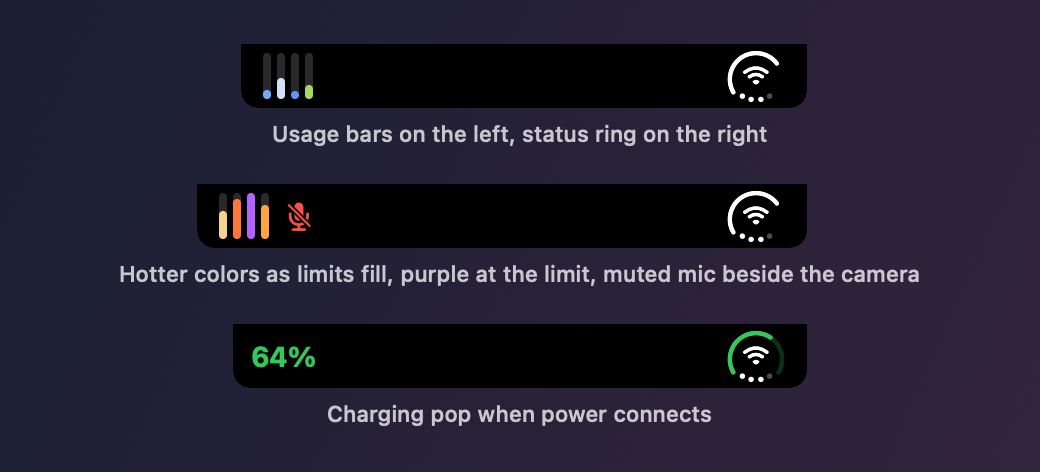
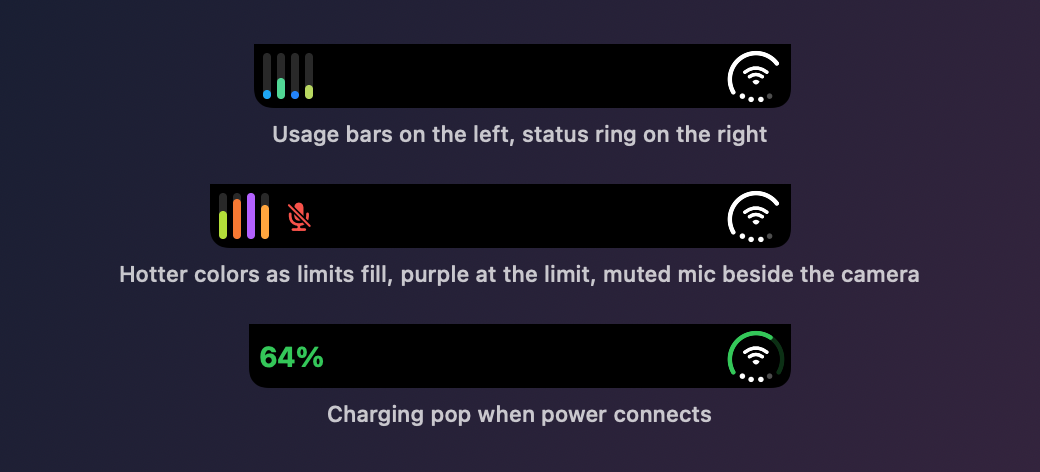
Match each closed-notch glyph's side gap to its bottom gap

diff --git a/Notchly/Views/Island/Battery/CompactBatteryView.swift b/Notchly/Views/Island/Battery/CompactBatteryView.swift
@@ -24,37 +24,53 @@ struct CompactBatteryView: View {
     var usageBars: [UsageBar] = []
 
     static let verticalInset: CGFloat = 2.5
+    /// Space between a glyph and the camera notch.
     static let horizontalInset: CGFloat = 11
     static let micIconWidth: CGFloat = 14
     static let leftWingSpacing: CGFloat = 8
 
     /// The wing left of the camera for the usage bars and muted mic; 0 when both are off.
-    static func leftWingWidth(barCount: Int, micMuted: Bool) -> CGFloat {
+    static func leftWingWidth(barCount: Int, micMuted: Bool, closedHeight: CGFloat) -> CGFloat {
         guard barCount > 0 || micMuted else { return 0 }
         let bars = UsageBarsGlyph.width(barCount: barCount)
         let mic = micMuted ? micIconWidth : 0
         let gap = barCount > 0 && micMuted ? leftWingSpacing : 0
-        return horizontalInset * 2 + bars + gap + mic
+        return horizontalInset + bars + gap + mic + barsOuterInset(closedHeight: closedHeight)
     }
 
     static func glyphHeight(closedHeight: CGFloat) -> CGFloat {
         (closedHeight - verticalInset * 2) * 0.95
     }
 
+    static func barsHeight(closedHeight: CGFloat) -> CGFloat {
+        glyphHeight(closedHeight: closedHeight) - 3
+    }
+
+    /// The ring sits as far from the island's right edge as from its bottom edge.
+    static func ringOuterInset(closedHeight: CGFloat) -> CGFloat {
+        (closedHeight - glyphHeight(closedHeight: closedHeight)) / 2
+    }
+
+    /// The bars sit as far from the island's left edge as from its bottom edge.
+    static func barsOuterInset(closedHeight: CGFloat) -> CGFloat {
+        (closedHeight - barsHeight(closedHeight: closedHeight)) / 2
+    }
+
     /// The wing right of the notch that holds the glyph.
     static func wingWidth(closedHeight: CGFloat) -> CGFloat {
-        horizontalInset * 2 + StatusRingGlyph.width(forHeight: glyphHeight(closedHeight: closedHeight))
+        horizontalInset + StatusRingGlyph.width(forHeight: glyphHeight(closedHeight: closedHeight))
+            + ringOuterInset(closedHeight: closedHeight)
     }
 
     var body: some View {
-        let leftWing = Self.leftWingWidth(barCount: usageBars.count, micMuted: micMuted)
+        let leftWing = Self.leftWingWidth(barCount: usageBars.count, micMuted: micMuted, closedHeight: size.height)
         HStack(spacing: 0) {
             if leftWing > 0 {
                 HStack(spacing: Self.leftWingSpacing) {
                     if !usageBars.isEmpty {
                         UsageBarsGlyph(
                             bars: usageBars,
-                            height: Self.glyphHeight(closedHeight: size.height) - 3
+                            height: Self.barsHeight(closedHeight: size.height)
                         )
                     }
                     if micMuted {
@@ -63,7 +79,8 @@ struct CompactBatteryView: View {
                             .transition(.opacity.combined(with: .scale(scale: 0.6)))
                     }
                 }
-                .frame(width: leftWing)
+                .padding(.leading, Self.barsOuterInset(closedHeight: size.height))
+                .frame(width: leftWing, alignment: .leading)
                 .transition(.opacity)
             }
 
@@ -79,7 +96,7 @@ struct CompactBatteryView: View {
                 height: Self.glyphHeight(closedHeight: size.height)
             )
         }
-        .padding(.trailing, Self.horizontalInset)
+        .padding(.trailing, Self.ringOuterInset(closedHeight: size.height))
         .frame(width: size.width, height: size.height)
         .offset(x: horizontalOffset, y: hoverOffsetY)
         .animation(.smooth(duration: 0.25, extraBounce: 0), value: micMuted)

diff --git a/Notchly/Views/Island/Logic/ContentView+Computed.swift b/Notchly/Views/Island/Logic/ContentView+Computed.swift
@@ -115,7 +115,7 @@ extension ContentView {
 
     /// The wing left of the camera, for the usage bars and the muted mic.
     var batteryLeftWingWidth: CGFloat {
-        CompactBatteryView.leftWingWidth(barCount: closedUsageBars.count, micMuted: closedMicMuted)
+        CompactBatteryView.leftWingWidth(barCount: closedUsageBars.count, micMuted: closedMicMuted, closedHeight: closedHeight)
     }
 
     var batterySideWingSize: CGSize {

diff --git a/Notchly/Views/Island/Battery/ChargingPopView.swift b/Notchly/Views/Island/Battery/ChargingPopView.swift
@@ -42,7 +42,7 @@ struct ChargingPopView: View {
                     height: CompactBatteryView.glyphHeight(closedHeight: size.height)
                 )
             }
-            .padding(.trailing, CompactBatteryView.horizontalInset)
+            .padding(.trailing, CompactBatteryView.ringOuterInset(closedHeight: size.height))
             .frame(width: wing)
         }
         .frame(width: size.width, height: size.height)
